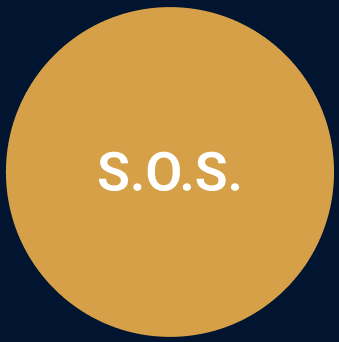
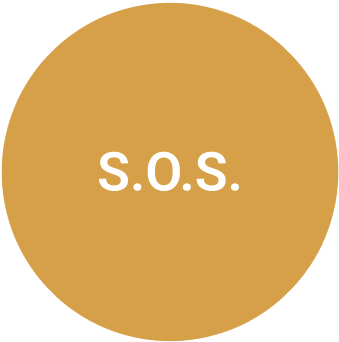
feat(services): SOS button fixed

Changed region(s): [[0.0, 0.0, 1.0, 1.0]]

diff --git a/src/hostlify/SOS.vue b/src/hostlify/SOS.vue
@@ -1,17 +1,25 @@
 <template>
   <div class="SOS">
-    <h2>Boton de Emergencia</h2>
-    <br>
-    <img src="../assets/SOS.png" >
-    <br>
-    <pv-button label="Volver" @click="goBack"> </pv-button>
-    <br><br>
+    <div class="title" style="margin: 4rem 4rem 0 4rem">
+      <h1 style="margin-top: 0">Ayuda</h1>
+    </div>
+    <div class="SOS_alert">
+      <pv-button>
+        SOS
+      </pv-button>
+
+    </div>
+    <div class="SOS_button">
+      <pv-button label="Volver" @click="goBack"> </pv-button>
+    </div>
   </div>
 </template>
 
 <script>
 export default {
   name: "SOS",
+  components: {},
+
   methods:{
     goBack(){
       this.$router.push("/services")
@@ -21,28 +29,39 @@ export default {
 </script>
 
 <style scoped>
+@import url('https://fonts.googleapis.com/css2?family=Roboto:wght@100&display=swap');
+
 .SOS {
-  background-color:#011530;
+  width: 95vw;
+  height: 83vh;
+  font-family: 'Roboto', sans-serif;
 
 }
-.SOS h2{
-  text-align: left;
-  padding-left:5% ;
-  padding-top: 3%;
-  color: #D6A049;
-  margin: auto;
+.SOS_alert{
+  display: flex;
+  justify-content: center;
 }
-.SOS img{
-  padding-left: 20%;
-  height: 50% ;
-  width: 50%;
-
+.SOS_alert button{
+  border-radius: 50rem;
+  background-color: #d6a049;
+  display: flex;
+  justify-content: center;
+  width: 30.5vw;
+  height: 65vh;
 }
-.SOS button {
-  width: 215.69px;
-  height: 40.75px;
-  margin-left: 30%;
-  margin-top:3%;
+.SOS_alert button {
+  font-weight: bold;
+  font-family: Arial;
+  font-size: 10vw;
+  color: white;
+}
+.SOS_button{
+  display: flex;
+  justify-content: end;
+}
+.SOS_button button {
+  border-radius: 3rem;
+  border-style: none;
   background-color: #D6A049;
   color: white;
 

diff --git a/src/hostlify/map-hotel.vue b/src/hostlify/map-hotel.vue
@@ -1,37 +1,50 @@
 <template>
-  <div class="mapa">
-    <h1>Mapa del hotel </h1>
-    <img src="../assets/mapa.png" >
-    <br><br> <br>
-    <pv-button label="Volver" class="p-button-raised p-button-rounded" ></pv-button>
+  <div class="map">
+    <div class="title" style="margin: 4rem 4rem 0 4rem">
+      <h1>Mapa del Hotel</h1>
+    </div>
+    <div class="map_hotel">
+      <img src="../assets/mapa.png" >
+    </div>
+    <div class="map_button">
+      <pv-button label="Volver" class="p-button-raised p-button-rounded" @click="goBack()"></pv-button>
+    </div>
   </div>
 
 </template>
 
 <script>
 export default {
-  name: "map-hotel"
+  name: "map-hotel",
+  methods:{
+    goBack(){
+      this.$router.push("/services")
+    }
+  }
 }
 </script>
 
 <style scoped>
-.mapa {
-  background-color:#011530;
+@import url('https://fonts.googleapis.com/css2?family=Roboto:wght@100&display=swap');
+
+.map {
+  font-family: 'Roboto', sans-serif;
 
 }
-.mapa h1{
-  text-align: left;
-  padding-left:10% ;
-  padding-top: 3%;
-  color: #D6A049;
-  margin: auto;
+.map_hotel{
+  display: flex;
+  justify-content: center;
 }
-.mapa img{
-  padding-left: 30% ;
-  width: 80%;
+.map_hotel img{
+  width: 40vw;
 }
-.mapa button {
-  margin-left: 50%;
+.map_button{
+  display: flex;
+  justify-content: end;
+}
+.map button {
+  border-radius: 3rem;
+  border-style: none;
   background-color: #D6A049;
   color: white;
 
